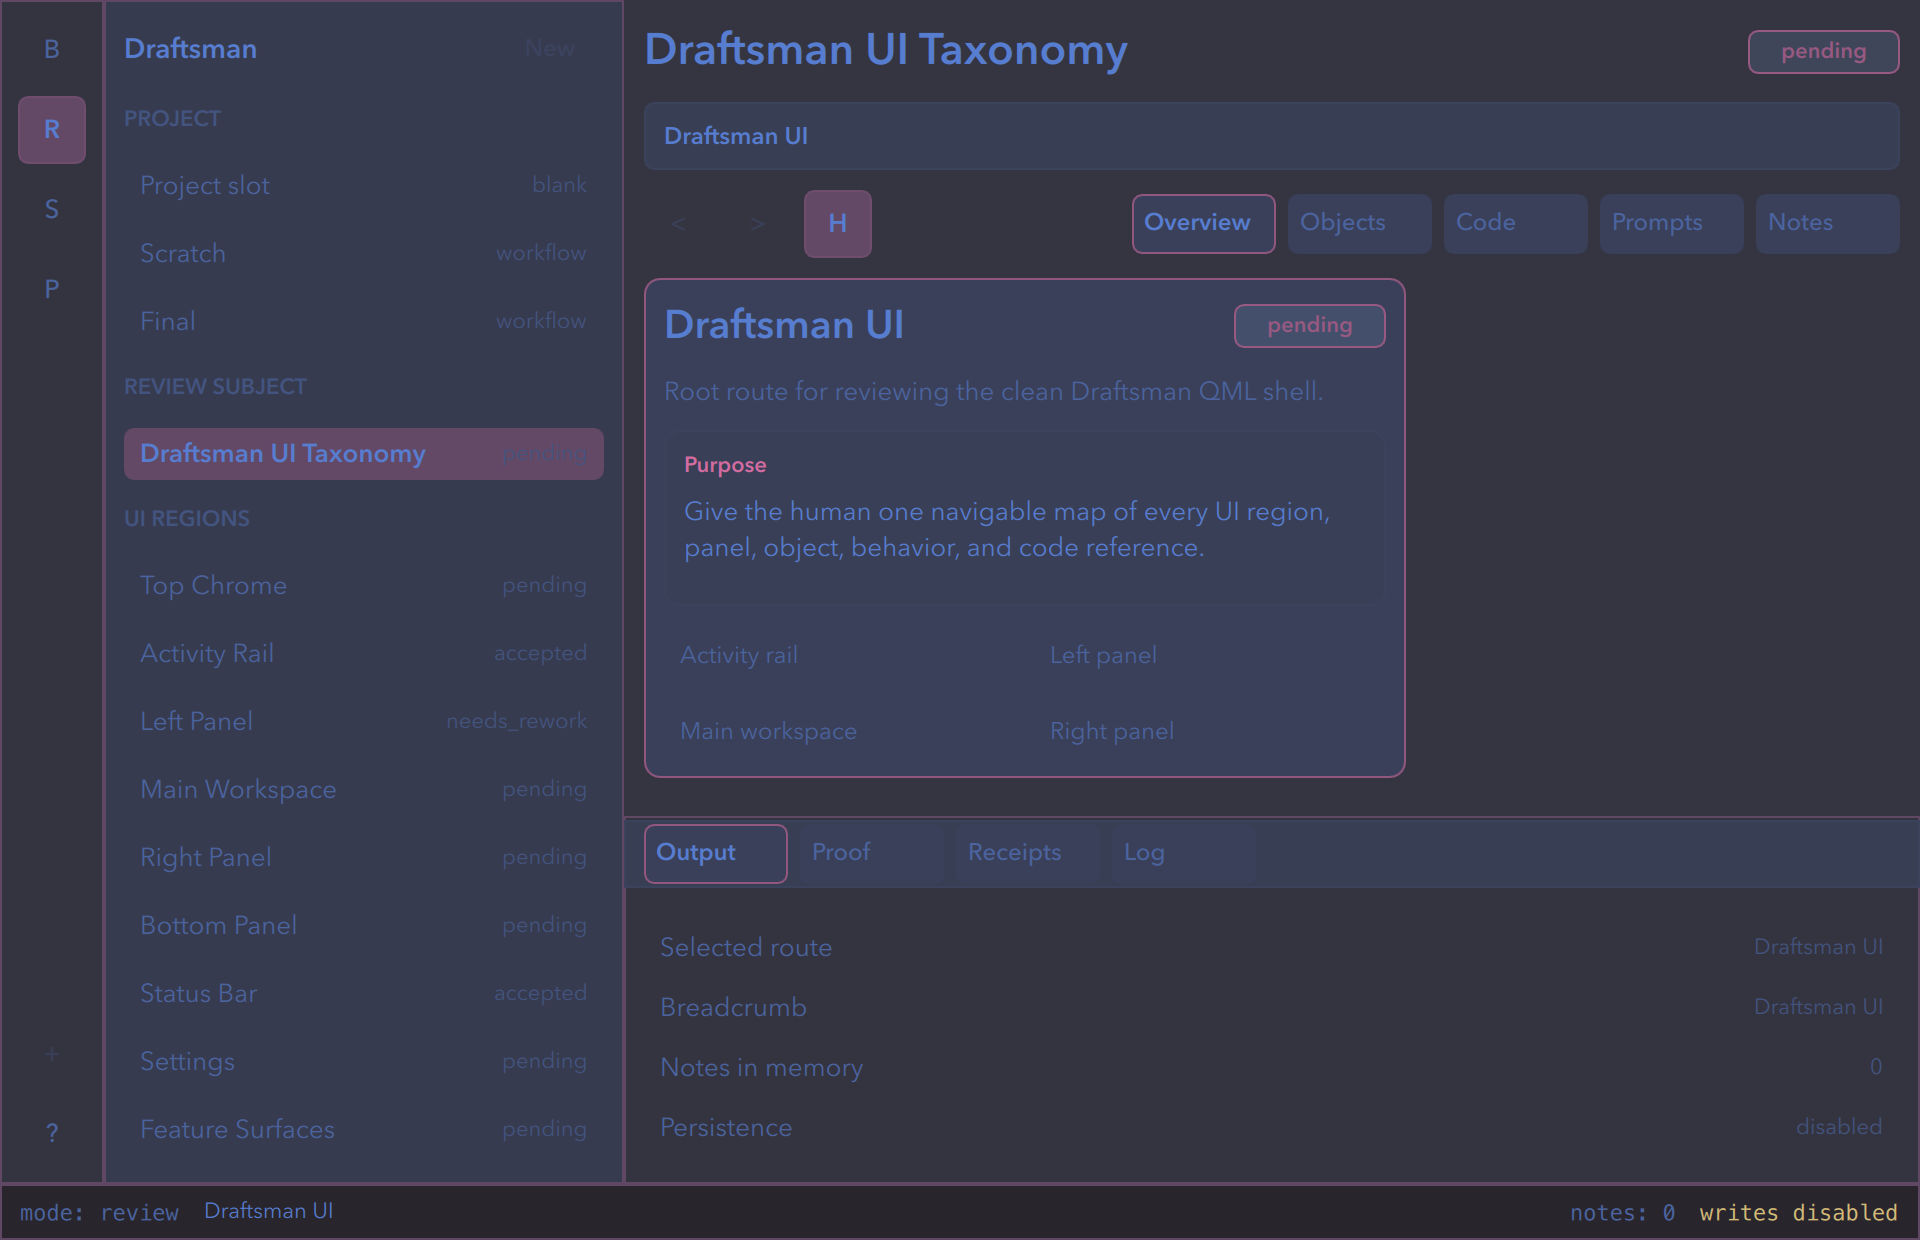
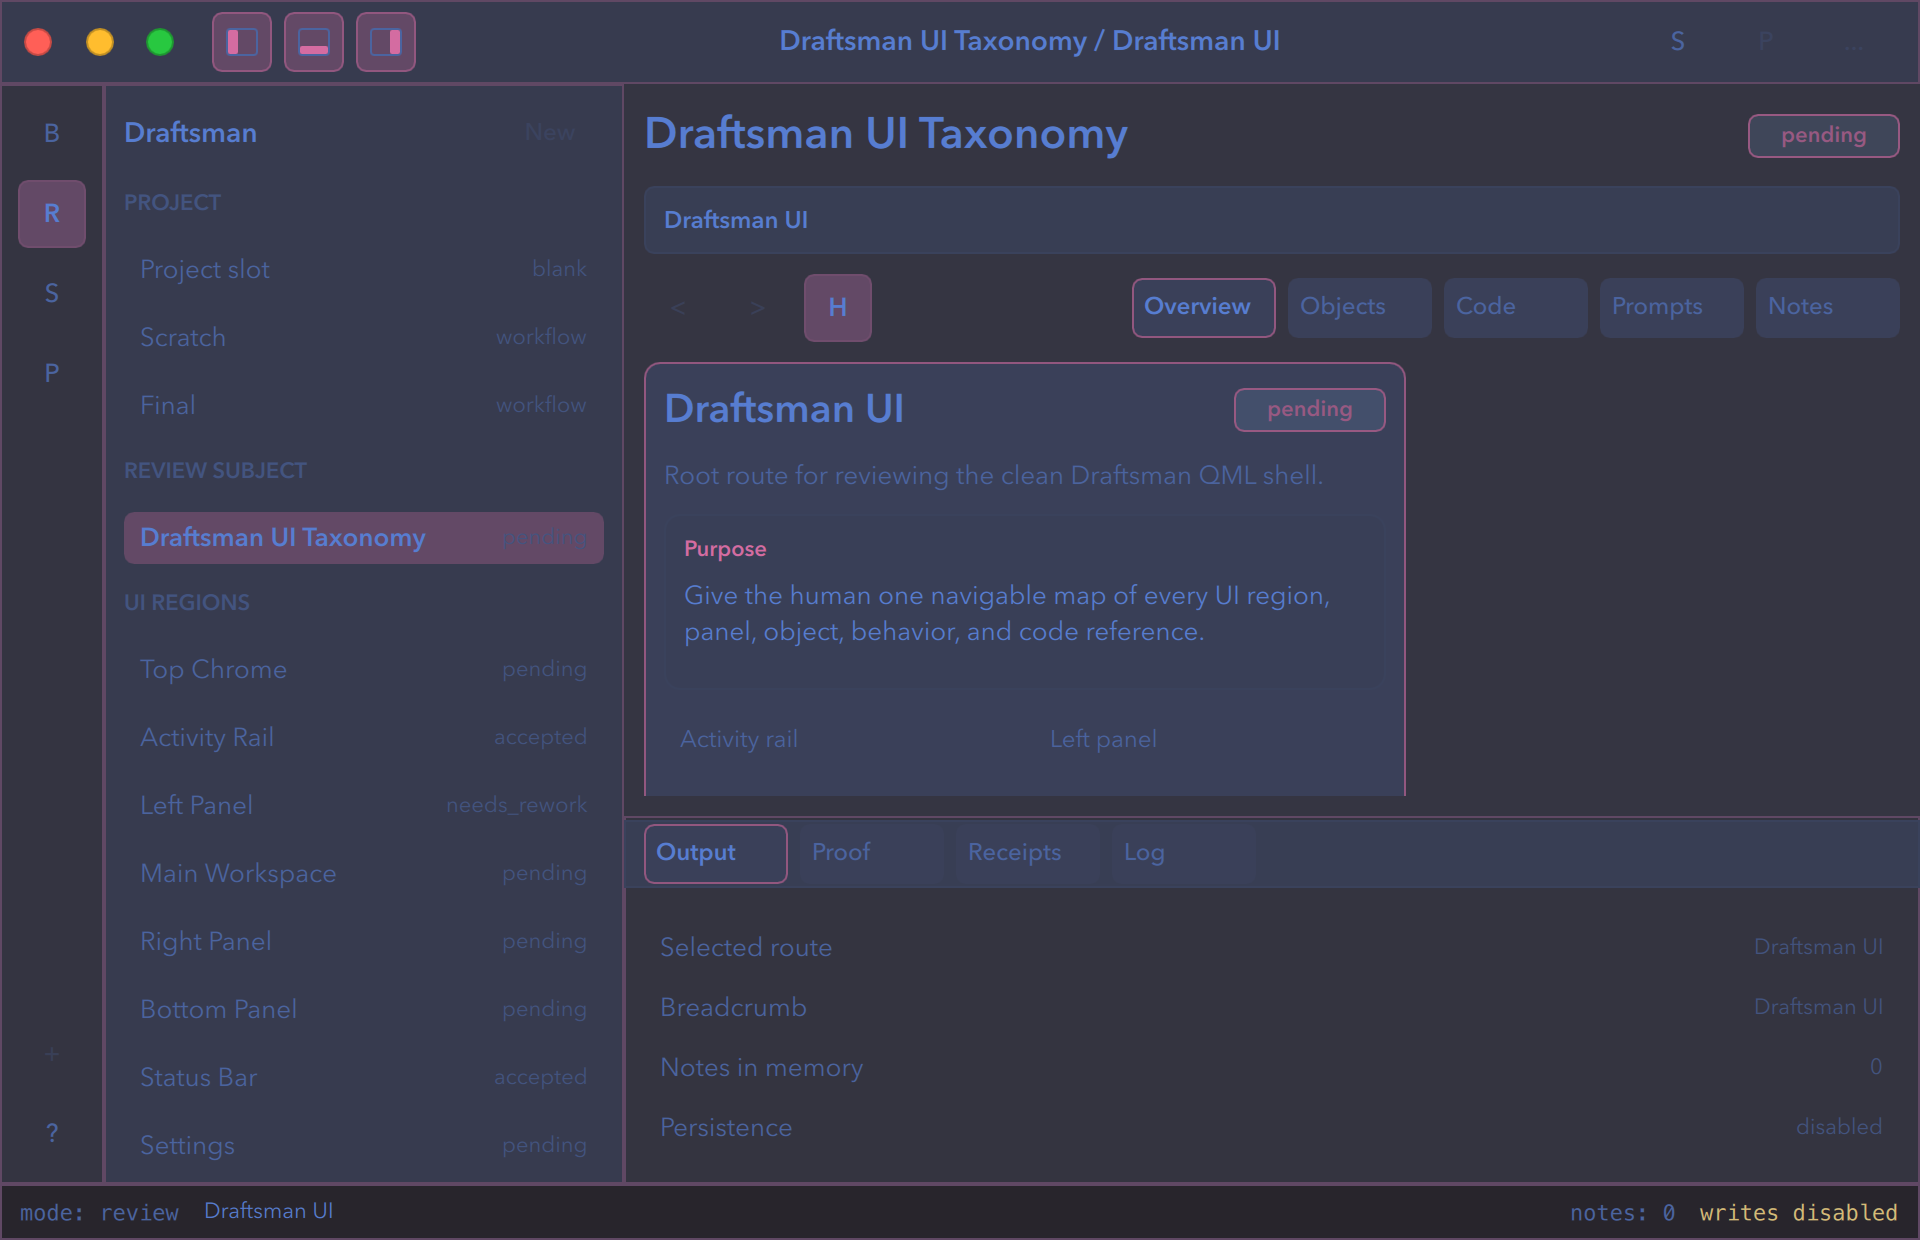
Add title bar panel collapse controls

diff --git a/src/regions/WindowTitleBar.qml b/src/regions/WindowTitleBar.qml
@@ -1,0 +1,159 @@
+import QtQuick
+import QtQuick.Controls
+import QtQuick.Layouts
+import "../style"
+import "../components"
+
+Rectangle {
+    id: titleBar
+
+    property var controller: null
+    property var hostWindow: null
+
+    color: UiStyle.colorPanel
+    border.color: UiStyle.colorBorderMajor
+    border.width: UiStyle.borderThin
+
+    function toggleZoom() {
+        if (!hostWindow) {
+            return
+        }
+        if (hostWindow.visibility === Window.Maximized) {
+            hostWindow.showNormal()
+        } else {
+            hostWindow.showMaximized()
+        }
+    }
+
+    MouseArea {
+        anchors.fill: parent
+        acceptedButtons: Qt.LeftButton
+        onPressed: {
+            if (titleBar.hostWindow && titleBar.hostWindow.startSystemMove) {
+                titleBar.hostWindow.startSystemMove()
+            }
+        }
+    }
+
+    RowLayout {
+        anchors.fill: parent
+        anchors.leftMargin: UiStyle.space12
+        anchors.rightMargin: UiStyle.space12
+        spacing: UiStyle.space10
+
+        RowLayout {
+            spacing: UiStyle.space8
+            Layout.preferredWidth: 84
+
+            Rectangle {
+                Layout.preferredWidth: 14
+                Layout.preferredHeight: 14
+                radius: 7
+                color: "#ff5f57"
+                border.color: UiStyle.mix("#ff5f57", "#000000", 0.22)
+                border.width: UiStyle.borderThin
+                MouseArea {
+                    anchors.fill: parent
+                    onClicked: titleBar.hostWindow.close()
+                }
+            }
+
+            Rectangle {
+                Layout.preferredWidth: 14
+                Layout.preferredHeight: 14
+                radius: 7
+                color: "#ffbd2e"
+                border.color: UiStyle.mix("#ffbd2e", "#000000", 0.24)
+                border.width: UiStyle.borderThin
+                MouseArea {
+                    anchors.fill: parent
+                    onClicked: titleBar.hostWindow.showMinimized()
+                }
+            }
+
+            Rectangle {
+                Layout.preferredWidth: 14
+                Layout.preferredHeight: 14
+                radius: 7
+                color: "#28c840"
+                border.color: UiStyle.mix("#28c840", "#000000", 0.24)
+                border.width: UiStyle.borderThin
+                MouseArea {
+                    anchors.fill: parent
+                    onClicked: titleBar.toggleZoom()
+                }
+            }
+        }
+
+        RowLayout {
+            spacing: UiStyle.space6
+
+            UiPanelToggleButton {
+                edge: "left"
+                tooltip: titleBar.controller && titleBar.controller.leftPanelCollapsed ? "Show left panel" : "Collapse left panel"
+                selected: titleBar.controller && !titleBar.controller.leftPanelCollapsed
+                onClicked: titleBar.controller.toggleLeftPanel()
+            }
+
+            UiPanelToggleButton {
+                edge: "bottom"
+                tooltip: titleBar.controller && titleBar.controller.bottomPanelCollapsed ? "Show bottom panel" : "Collapse bottom panel"
+                selected: titleBar.controller && !titleBar.controller.bottomPanelCollapsed
+                onClicked: titleBar.controller.toggleBottomPanel()
+            }
+
+            UiPanelToggleButton {
+                edge: "right"
+                tooltip: titleBar.controller && titleBar.controller.rightPanelCollapsed ? "Show right panel" : "Collapse right panel"
+                selected: titleBar.controller && !titleBar.controller.rightPanelCollapsed
+                onClicked: titleBar.controller.toggleRightPanel()
+            }
+        }
+
+        Text {
+            Layout.fillWidth: true
+            text: titleBar.controller ? titleBar.controller.selectedSubjectLabel + " / " + titleBar.controller.currentRoute().label : "Draftsman"
+            color: UiStyle.colorText
+            font.family: UiStyle.fontSans
+            font.pixelSize: UiStyle.fontSizeTitle
+            font.weight: UiStyle.fontWeightSemiBold
+            elide: Text.ElideRight
+            horizontalAlignment: Text.AlignHCenter
+
+            MouseArea {
+                anchors.fill: parent
+                acceptedButtons: Qt.LeftButton
+                onDoubleClicked: titleBar.toggleZoom()
+                onPressed: {
+                    if (titleBar.hostWindow && titleBar.hostWindow.startSystemMove) {
+                        titleBar.hostWindow.startSystemMove()
+                    }
+                }
+            }
+        }
+
+        RowLayout {
+            spacing: UiStyle.space6
+            Layout.preferredWidth: 126
+
+            UiIconButton {
+                label: "S"
+                tooltip: "Settings"
+                selected: titleBar.controller && titleBar.controller.activityMode === "settings"
+                onClicked: titleBar.controller.setActivityMode("settings")
+            }
+
+            UiIconButton {
+                label: "P"
+                tooltip: "Proof"
+                enabled: false
+            }
+
+            UiIconButton {
+                label: "..."
+                tooltip: "More"
+                enabled: false
+            }
+        }
+    }
+}

diff --git a/src/Main.qml b/src/Main.qml
@@ -15,6 +15,7 @@ ApplicationWindow {
     id: window
 
     title: "Editable UI Shell"
+    flags: Qt.Window | Qt.FramelessWindowHint
     width: UiStyle.windowWidth
     height: UiStyle.windowHeight
     minimumWidth: UiStyle.windowMinWidth
@@ -39,6 +40,14 @@ ApplicationWindow {
         anchors.fill: parent
         spacing: 0
 
+        WindowTitleBar {
+            id: windowTitleBar
+            controller: runtimeController
+            hostWindow: window
+            Layout.fillWidth: true
+            Layout.preferredHeight: UiStyle.titleBarHeight
+        }
+
         RowLayout {
             id: shellBody
             Layout.fillWidth: true
@@ -55,7 +64,8 @@ ApplicationWindow {
             LeftPanel {
                 id: leftPanel
                 controller: runtimeController
-                Layout.preferredWidth: UiStyle.leftPanelWidth
+                visible: !runtimeController.leftPanelCollapsed
+                Layout.preferredWidth: visible ? UiStyle.leftPanelWidth : 0
                 Layout.fillHeight: true
             }
 
@@ -75,15 +85,16 @@ ApplicationWindow {
                 BottomPanel {
                     id: bottomPanel
                     controller: runtimeController
+                    visible: !runtimeController.bottomPanelCollapsed
                     Layout.fillWidth: true
-                    Layout.preferredHeight: UiStyle.bottomPanelHeight
+                    Layout.preferredHeight: visible ? UiStyle.bottomPanelHeight : 0
                 }
             }
 
             RightPanel {
                 id: rightPanel
                 controller: runtimeController
-                visible: window.width >= 1160
+                visible: window.width >= 1160 && !runtimeController.rightPanelCollapsed
                 Layout.preferredWidth: visible ? UiStyle.rightPanelWidth : 0
                 Layout.fillHeight: true
             }

diff --git a/src/components/UiPanelToggleButton.qml b/src/components/UiPanelToggleButton.qml
@@ -1,0 +1,70 @@
+import QtQuick
+import QtQuick.Controls
+import "../style"
+
+Rectangle {
+    id: button
+
+    property string edge: "left"
+    property bool selected: false
+    property string tooltip: ""
+    signal clicked()
+
+    implicitWidth: 30
+    implicitHeight: 30
+    radius: UiStyle.radiusSm
+    color: mouseArea.containsMouse ? UiStyle.colorControlHover : selected ? UiStyle.colorSelected : UiStyle.colorControl
+    border.color: selected ? UiStyle.colorBorderFocus : UiStyle.colorBorderMinor
+    border.width: UiStyle.borderThin
+
+    ToolTip.visible: mouseArea.containsMouse && tooltip.length > 0
+    ToolTip.text: tooltip
+
+    Rectangle {
+        id: frame
+        anchors.centerIn: parent
+        width: 16
+        height: 14
+        radius: 2
+        color: UiStyle.colorTransparent
+        border.color: UiStyle.colorTextMuted
+        border.width: UiStyle.borderThin
+    }
+
+    Rectangle {
+        visible: button.edge === "left"
+        x: frame.x + 1
+        y: frame.y + 1
+        width: 5
+        height: frame.height - 2
+        radius: 1
+        color: selected ? UiStyle.colorAccent : UiStyle.colorTextFaint
+    }
+
+    Rectangle {
+        visible: button.edge === "right"
+        x: frame.x + frame.width - 6
+        y: frame.y + 1
+        width: 5
+        height: frame.height - 2
+        radius: 1
+        color: selected ? UiStyle.colorAccent : UiStyle.colorTextFaint
+    }
+
+    Rectangle {
+        visible: button.edge === "bottom"
+        x: frame.x + 1
+        y: frame.y + frame.height - 5
+        width: frame.width - 2
+        height: 4
+        radius: 1
+        color: selected ? UiStyle.colorAccent : UiStyle.colorTextFaint
+    }
+
+    MouseArea {
+        id: mouseArea
+        anchors.fill: parent
+        hoverEnabled: true
+        onClicked: button.clicked()
+    }
+}

diff --git a/src/runtime/RuntimeController.qml b/src/runtime/RuntimeController.qml
@@ -13,6 +13,9 @@ QtObject {
     property string selectedShelfTab: "Output"
     property string selectedSettingsPage: "theme"
     property bool writeDisabled: true
+    property bool leftPanelCollapsed: false
+    property bool rightPanelCollapsed: false
+    property bool bottomPanelCollapsed: false
     property int revision: 0
 
     property var backStack: []
@@ -219,6 +222,21 @@ QtObject {
     function setSettingsPage(pageId) {
         selectedSettingsPage = pageId
         activityMode = "settings"
+        revision += 1
+    }
+
+    function toggleLeftPanel() {
+        leftPanelCollapsed = !leftPanelCollapsed
+        revision += 1
+    }
+
+    function toggleRightPanel() {
+        rightPanelCollapsed = !rightPanelCollapsed
+        revision += 1
+    }
+
+    function toggleBottomPanel() {
+        bottomPanelCollapsed = !bottomPanelCollapsed
         revision += 1
     }
 

diff --git a/src/style/UiStyle.qml b/src/style/UiStyle.qml
@@ -16,6 +16,7 @@ QtObject {
     readonly property int leftPanelWidth: 260
     readonly property int rightPanelWidth: 330
     readonly property int bottomPanelHeight: 184
+    readonly property int titleBarHeight: 42
     readonly property int statusBarHeight: 28
 
     // Colors
